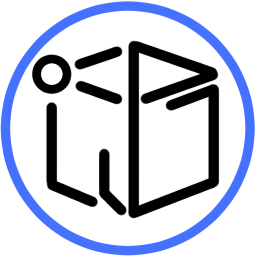
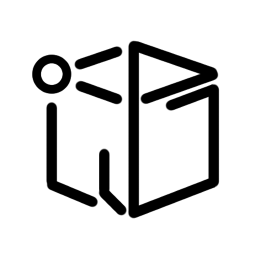
pwaのバグ対応

Changed region(s): [[0.0, 0.0, 1.0, 1.0]]

diff --git a/packages/frontend/index.html b/packages/frontend/index.html
@@ -4,7 +4,7 @@
     <meta charset="UTF-8" />
     <meta name="viewport" content="width=device-width, initial-scale=1.0" />
     <title>iQbe</title>
-    <link rel="icon" type="image/png" href="/iqbe-icon.png" />
+    <!-- <link rel="icon" type="image/png" href="/iqbe-icon.png" /> -->
     <link rel="manifest" href="manifest.json">
     <link rel="manifest" href="manifest.webmanifest" />
     <script async src="https://cdn.jsdelivr.net/npm/pwacompat@2.0.6/pwacompat.min.js"

diff --git a/packages/frontend/vite.config.ts b/packages/frontend/vite.config.ts
@@ -26,6 +26,7 @@ export default defineConfig({
         'offline.html',
         'favicon.ico',
         'iqbe-icon.png',
+        'iqbe.png',
       ],
       devOptions: {
         enabled: true,
